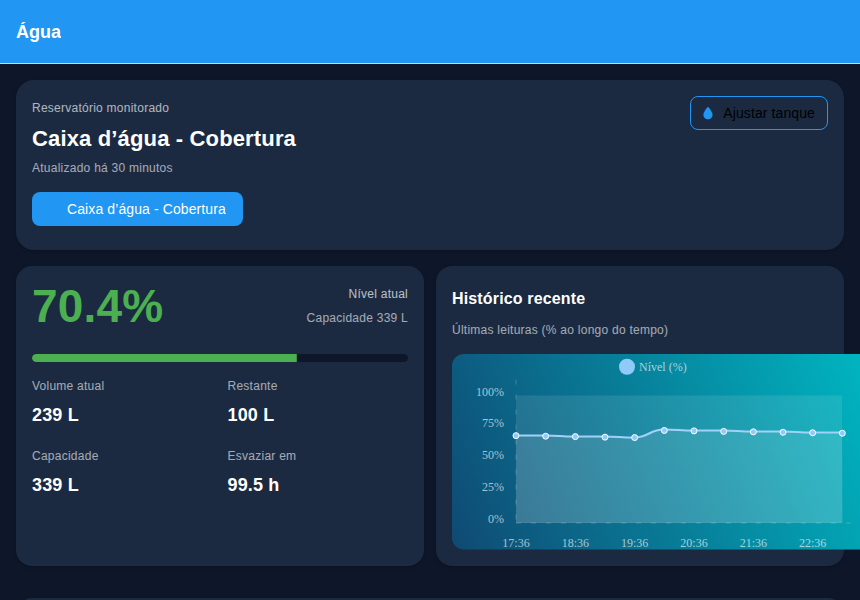
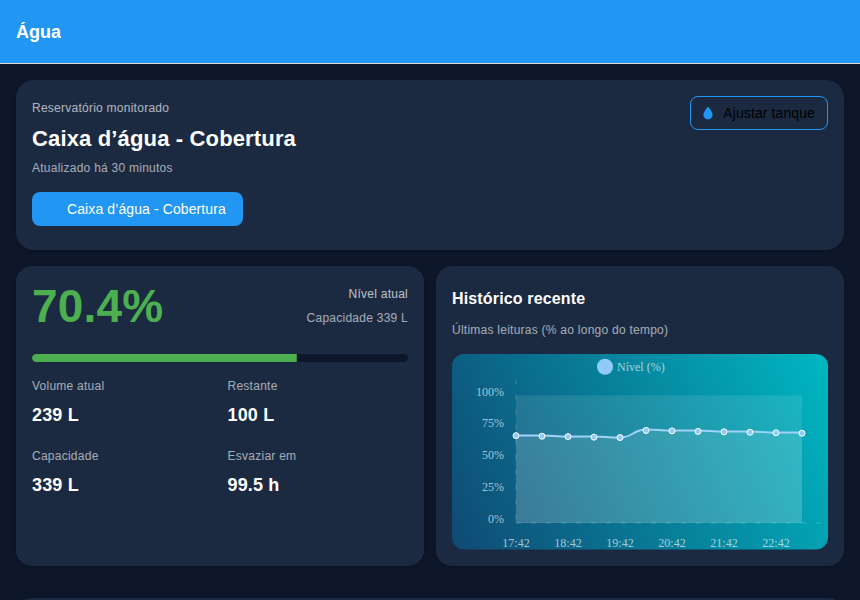
Corrigir gráfico de água vazando para fora do card
O LineChart usava uma largura fixa calculada a partir da largura total
da janela (screenWidth - 48, até 420px), ignorando o espaço real do
card onde ele é renderizado. Em layouts mais largos (como o usado para
tirar a screenshot do artigo, com status e histórico lado a lado), isso
fazia o gráfico ultrapassar as bordas arredondadas do card à direita.

Agora a largura do gráfico é medida via onLayout no próprio contêiner,
então ele sempre se ajusta ao espaço disponível, e o chartCard ganhou
overflow:hidden como cinto de segurança. dashboard.png foi regenerado
com o gráfico corretamente contido no card.

Changed region(s): [[0.6047, 0.57, 1.0, 0.93], [0.6047, 0.69, 0.8465, 0.75], [0.6953, 0.6, 0.8163, 0.63]]

diff --git a/iot-monitor-app/src/screens/water/WaterMonitorScreen.tsx b/iot-monitor-app/src/screens/water/WaterMonitorScreen.tsx
@@ -18,7 +18,7 @@ import { Device } from '../../types/device.types'
 import EmptyState from '../../components/common/EmptyState'
 
 const screenWidth = Dimensions.get('window').width
-const chartWidth = Math.min(screenWidth - 48, 420)
+const fallbackChartWidth = Math.min(screenWidth - 48, 420)
 const chartHeight = 170
 
 const safeConsole: any = (globalThis as any)?.console
@@ -31,6 +31,7 @@ export default function WaterMonitorScreen() {
   const [loadingDevices, setLoadingDevices] = useState(true)
   const [refreshing, setRefreshing] = useState(false)
   const [usingEnergyFallback, setUsingEnergyFallback] = useState(false)
+  const [chartContainerWidth, setChartContainerWidth] = useState(fallbackChartWidth)
 
   const {
     readings,
@@ -257,38 +258,48 @@ export default function WaterMonitorScreen() {
                 <Title style={styles.sectionTitle}>Histórico recente</Title>
                 <Paragraph style={styles.chartHint}>Últimas leituras (% ao longo do tempo)</Paragraph>
               </View>
-              {historyPoints.length ? (
-                <LineChart
-                  data={chartData}
-                  width={chartWidth}
-                  height={chartHeight}
-                  withInnerLines={false}
-                  bezier
-                  fromZero
-                  segments={4}
-                  yAxisSuffix="%"
-                  style={styles.chart}
-                  chartConfig={{
-                    backgroundGradientFrom: GRADIENTS.water[0],
-                    backgroundGradientTo: GRADIENTS.water[1],
-                    decimalPlaces: 0,
-                    color: (opacity = 1) => `rgba(255, 255, 255, ${opacity})`,
-                    labelColor: (opacity = 1) => `rgba(255, 255, 255, ${opacity * 0.8})`,
-                    style: {
-                      borderRadius: 12,
-                    },
-                    propsForDots: {
-                      r: '3',
-                      strokeWidth: '1',
-                      stroke: COLORS.white,
-                    },
-                  }}
-                />
-              ) : (
-                <Paragraph style={styles.emptyHistory}>
-                  Ainda não há leituras suficientes para exibir um gráfico.
-                </Paragraph>
-              )}
+              <View
+                style={styles.chartMeasureWrapper}
+                onLayout={(event) => {
+                  const measuredWidth = event.nativeEvent.layout.width
+                  if (measuredWidth > 0 && Math.round(measuredWidth) !== Math.round(chartContainerWidth)) {
+                    setChartContainerWidth(measuredWidth)
+                  }
+                }}
+              >
+                {historyPoints.length ? (
+                  <LineChart
+                    data={chartData}
+                    width={chartContainerWidth}
+                    height={chartHeight}
+                    withInnerLines={false}
+                    bezier
+                    fromZero
+                    segments={4}
+                    yAxisSuffix="%"
+                    style={styles.chart}
+                    chartConfig={{
+                      backgroundGradientFrom: GRADIENTS.water[0],
+                      backgroundGradientTo: GRADIENTS.water[1],
+                      decimalPlaces: 0,
+                      color: (opacity = 1) => `rgba(255, 255, 255, ${opacity})`,
+                      labelColor: (opacity = 1) => `rgba(255, 255, 255, ${opacity * 0.8})`,
+                      style: {
+                        borderRadius: 12,
+                      },
+                      propsForDots: {
+                        r: '3',
+                        strokeWidth: '1',
+                        stroke: COLORS.white,
+                      },
+                    }}
+                  />
+                ) : (
+                  <Paragraph style={styles.emptyHistory}>
+                    Ainda não há leituras suficientes para exibir um gráfico.
+                  </Paragraph>
+                )}
+              </View>
             </Card.Content>
           </Card>
         </View>
@@ -427,6 +438,7 @@ const styles = StyleSheet.create({
     borderRadius: 16,
     backgroundColor: COLORS.backdropMuted,
     marginBottom: 16,
+    overflow: 'hidden',
   },
   statusHeader: {
     flexDirection: 'row',
@@ -495,6 +507,10 @@ const styles = StyleSheet.create({
     opacity: 0.6,
     fontSize: 12,
     marginTop: 4,
+  },
+  chartMeasureWrapper: {
+    width: '100%',
+    alignItems: 'center',
   },
   chart: {
     marginTop: 4,
